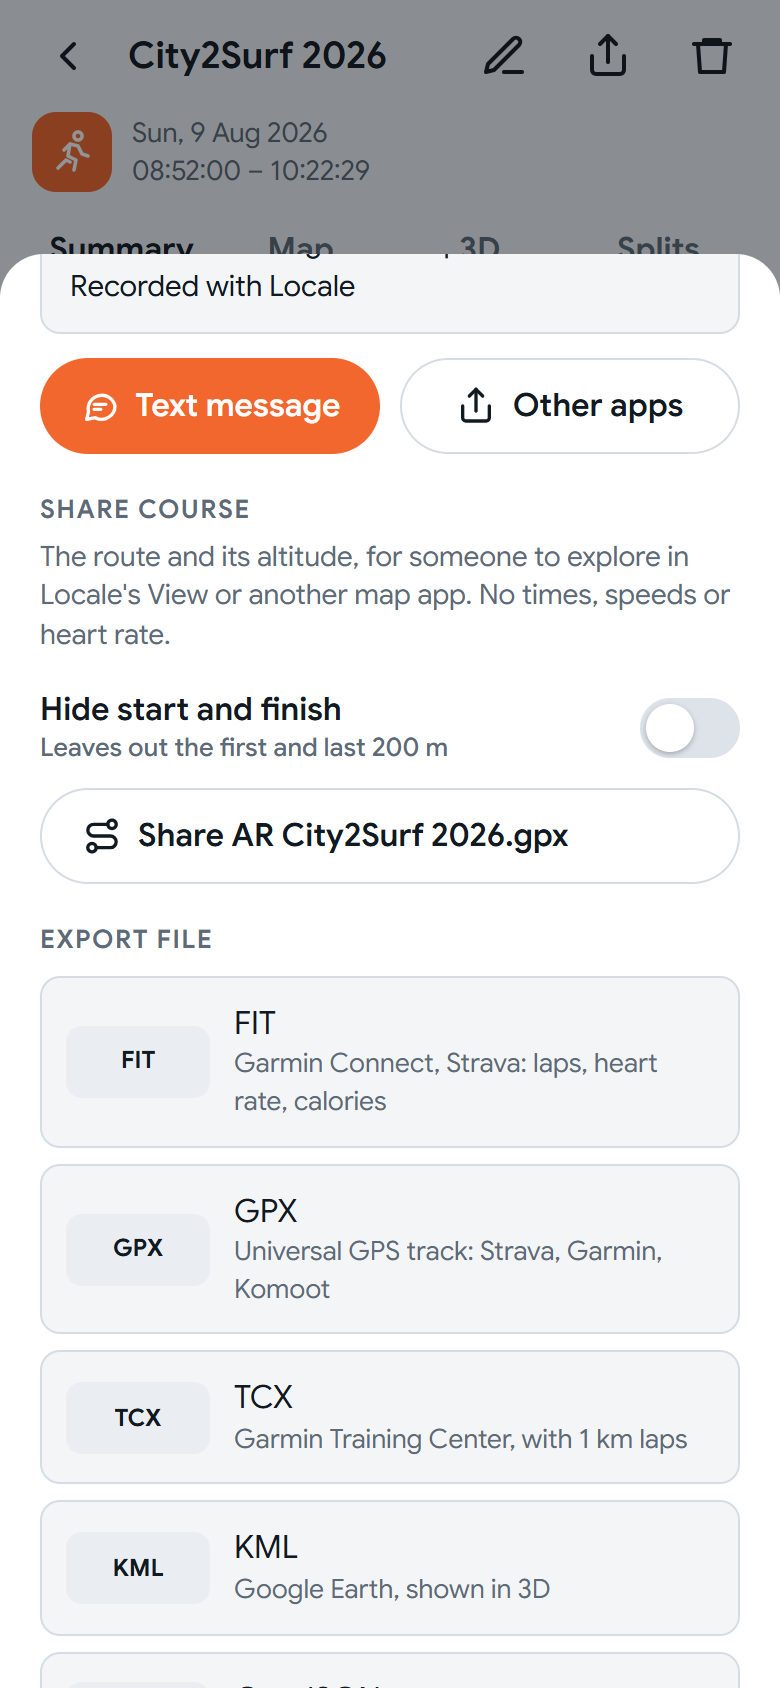
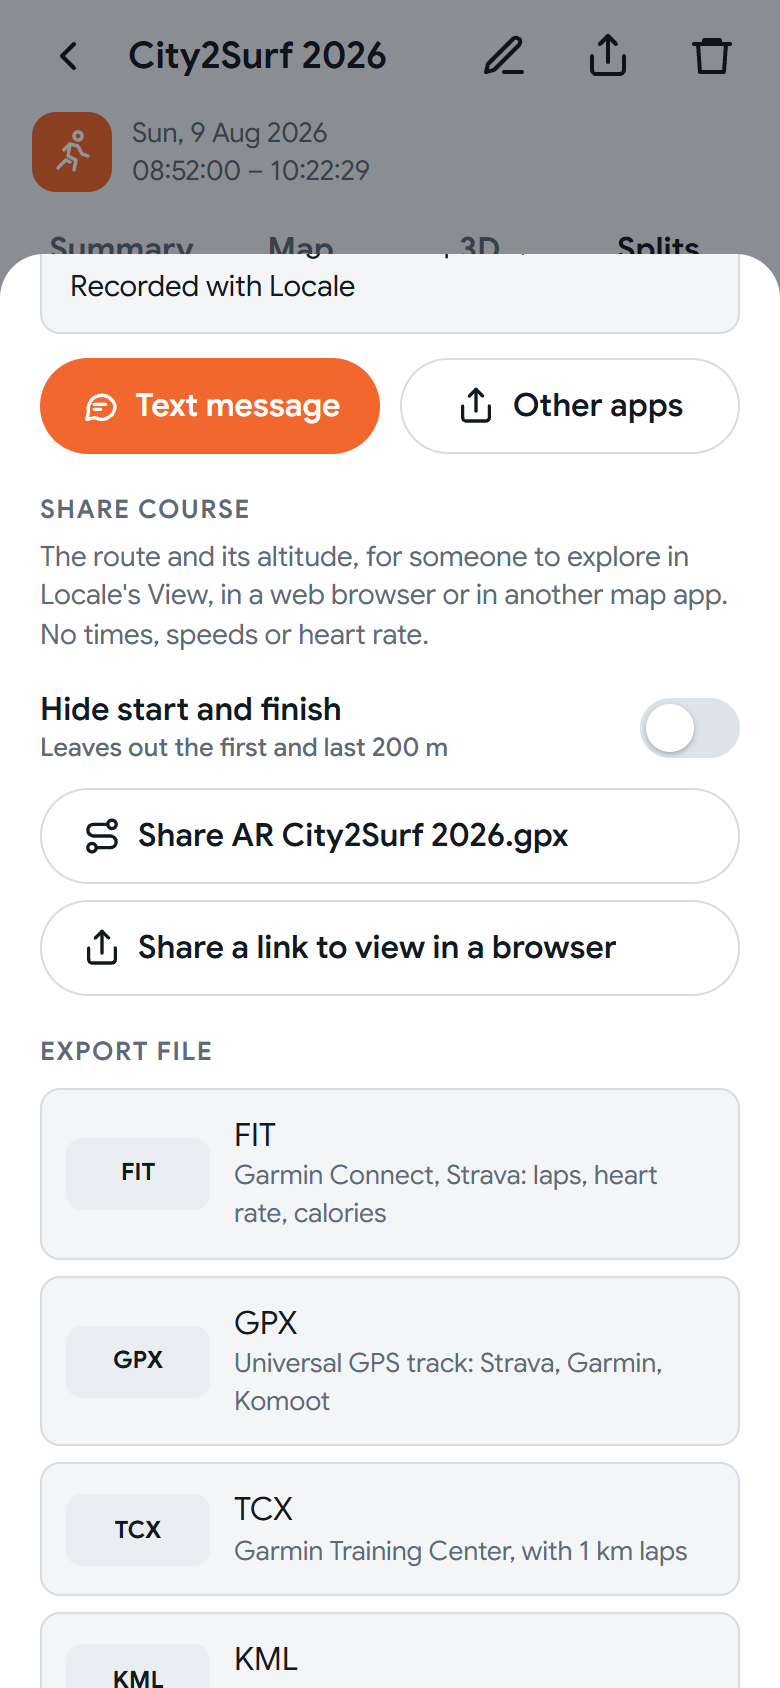
README: re-capture all screenshots, add Personal bests and Locale Viewer
Every phone screenshot re-taken from the browser build (Insights routine filter, the
3D Smooth button, the Share a link button, the new time announcement wording), the
watch start screen from the watch, plus insights-bests.png and a desktop viewer.jpeg.
Fixes npm run viewer: the page's entry now sits inside the Vite root (viewer/main.js),
and the viewer dev server has its own dependency cache.

diff --git a/vite.viewer.config.js b/vite.viewer.config.js
@@ -8,6 +8,8 @@ export default defineConfig({
   root: fileURLToPath(new URL('./viewer', import.meta.url)),
   base: './',
   publicDir: false,
+  // Its own dependency cache, so it can run beside the app's dev server.
+  cacheDir: fileURLToPath(new URL('./node_modules/.vite-viewer', import.meta.url)),
   build: {
     outDir: fileURLToPath(new URL('./dist-viewer', import.meta.url)),
     emptyOutDir: true,

diff --git a/viewer/index.html b/viewer/index.html
@@ -11,6 +11,6 @@
   </head>
   <body>
     <div id="app" class="viewer"></div>
-    <script type="module" src="../src/viewer/main.js"></script>
+    <script type="module" src="./main.js"></script>
   </body>
 </html>

diff --git a/viewer/main.js b/viewer/main.js
@@ -1,0 +1,2 @@
+// Entry for viewer/index.html: inside the Vite root, so `npm run viewer` serves it too.
+import '../src/viewer/main.js';

diff --git a/README.md b/README.md
@@ -47,14 +47,17 @@ sensors.
   <img src="docs/screenshots/voice-live.png" width="250" alt="Live workout screen showing the last spoken announcement as a caption under the controls">
 </p>
 <p align="center">
-  <img src="docs/screenshots/insights.png" width="250" alt="Insights: date range, grouping and activity filters, with totals for workouts, distance, activity time, speed, pace, heart rate, cardio load and calories">
+  <img src="docs/screenshots/insights.png" width="250" alt="Insights: date range, grouping, activity and routine filters, with totals for workouts, distance, activity time, speed, pace, heart rate, cardio load and calories">
   &nbsp;
   <img src="docs/screenshots/insights-split.png" width="250" alt="Insights: monthly distance stacked by activity, with a tooltip for July and a table broken down by activity">
   &nbsp;
   <img src="docs/screenshots/insights-weekly.png" width="250" alt="Insights: weekly cardio load for the last 3 months stacked by activity, with a tooltip for one week">
 </p>
 <p align="center">
-  <img src="docs/screenshots/view-share.png" width="250" alt="Share sheet: Share course section with a Hide start and finish switch and a Share AR City2Surf 2026.gpx button">
+  <img src="docs/screenshots/insights-bests.png" width="250" alt="Insights: personal bests per activity, with best average pace, best kilometre split, fastest speed and longest workout, each with its date">
+</p>
+<p align="center">
+  <img src="docs/screenshots/view-share.png" width="250" alt="Share sheet: Share course section with a Hide start and finish switch, a Share AR City2Surf 2026.gpx button and Share a link to view in a browser">
   &nbsp;
   <img src="docs/screenshots/view-list.png" width="250" alt="View: Open a course file, and the courses opened before with who shared them, distance and climb">
 </p>
@@ -62,6 +65,9 @@ sensors.
   <img src="docs/screenshots/view-map.png" width="250" alt="A shared course on the map in one colour, with a readout of distance, altitude, grade and climb so far, and the elevation profile">
   &nbsp;
   <img src="docs/screenshots/view-3d.png" width="250" alt="A shared course in 3D over satellite imagery, drawn in one colour">
+</p>
+<p align="center">
+  <img src="docs/screenshots/viewer.jpeg" width="760" alt="Locale Viewer in a desktop browser: the City2Surf course from a link, full width on the map with its elevation profile">
 </p>
 <p align="center">
   <img src="docs/screenshots/watch-home.png" width="200" alt="Pixel Watch: Locale start screen with Start Run and Start Walk">
@@ -74,7 +80,8 @@ City2Surf (Hyde Park to Bondi via Heartbreak Hill at 6:18/km, with simulated hea
 It is generated from the course map and is not a real recording. The voice screenshots
 come from the browser simulator. The Insights screenshots use a year of generated
 workouts in the browser build. The View screenshots show the sample shared as a course,
-and a generated walk shared with its start and finish hidden. The watch screenshots
+and a generated walk shared with its start and finish hidden; the Locale Viewer screenshot
+is the same course opened from a link in desktop Chrome. The watch screenshots
 are from a Pixel Watch 3; the workout screen uses the debug build's demo mode.</sub>
 
 ## Features
@@ -457,7 +464,7 @@ docs/        screenshots
 ```
 
 See [PLAN.md](PLAN.md) for the design and decisions, and [BACKLOG.md](BACKLOG.md) for
-the feature requests (all done so far).
+the feature requests.
 
 ## Credits
 
